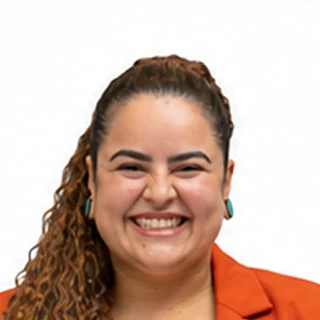
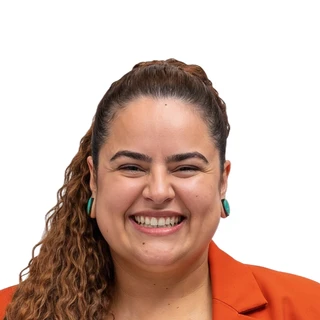
feat: foto nova da Myle Pontes, home com colaboradora e /cases/ com depoimentos em fundo claro
- Troca a foto da Myle em sobre-nos (card, perfil, avatar, og) e no banner da dobra 'O problema' de /contabilidade-beorange/, agora como <img> com alt
- Alt text da Myle em autores.ts, sobre-nos e ArticleHeader; og:image:alt via prop imagemAlt no Layout
- Home: foto da secao 'Toda empresa muda de patamar' trocada
- /cases/: remove a secao 'Cases' vazia e deixa Depoimentos com fundo branco

diff --git a/src/styles/prototype-contabilidade.css b/src/styles/prototype-contabilidade.css
@@ -451,9 +451,13 @@
      folga = vw/2 - 672 (figura em vw-647, texto acabando em vw/2+25), que dá 11px a 1366px
      e negativo abaixo de 1344px. */
   .problema{position:relative}
+  .problema__foto{display:none}
   .problema .wrap{position:relative;z-index:1}
   @media(min-width:1366px){
-    .problema{background:#fff url('/img/contabilidade/problema-bg.webp') right top/auto 100% no-repeat}
+    .problema{background:#fff}
+    /* O que era `right top / auto 100%` no background: top:0, right:0, altura da seção, largura
+       automática. O branco à esquerda continua vindo do background-color da seção. */
+    .problema__foto{display:block;position:absolute;top:0;right:0;z-index:0;height:100%;width:auto;max-width:none;pointer-events:none}
   }
   .prob-grid{display:grid;grid-template-columns:1fr 1fr;gap:16px;margin-top:44px}
   .prob{display:flex;gap:14px;align-items:flex-start;background:#fff;border:1px solid var(--border);border-radius:14px;padding:18px 20px;box-shadow:var(--shadow)}

diff --git a/src/lib/autores.ts b/src/lib/autores.ts
@@ -82,7 +82,7 @@ export const AUTORES = {
      *  numa página que existe para dizer quem é a pessoa, foto de procedência incerta é o tipo
      *  de detalhe que derruba a página inteira. */
     foto: "/img/sobre-nos/myle-pontes.webp",
-    fotoAlt: "Myle Pontes, fundadora e CEO da Beorange, de blazer laranja, sorrindo",
+    fotoAlt: "Myle Pontes, fundadora e CEO da Beorange, sorrindo, de blazer laranja sobre blusa branca, com as mãos na lapela",
     avatar: "/img/sobre-nos/myle-pontes-avatar.webp",
     og: "/img/sobre-nos/myle-pontes-og.jpg",
     perfis: [
